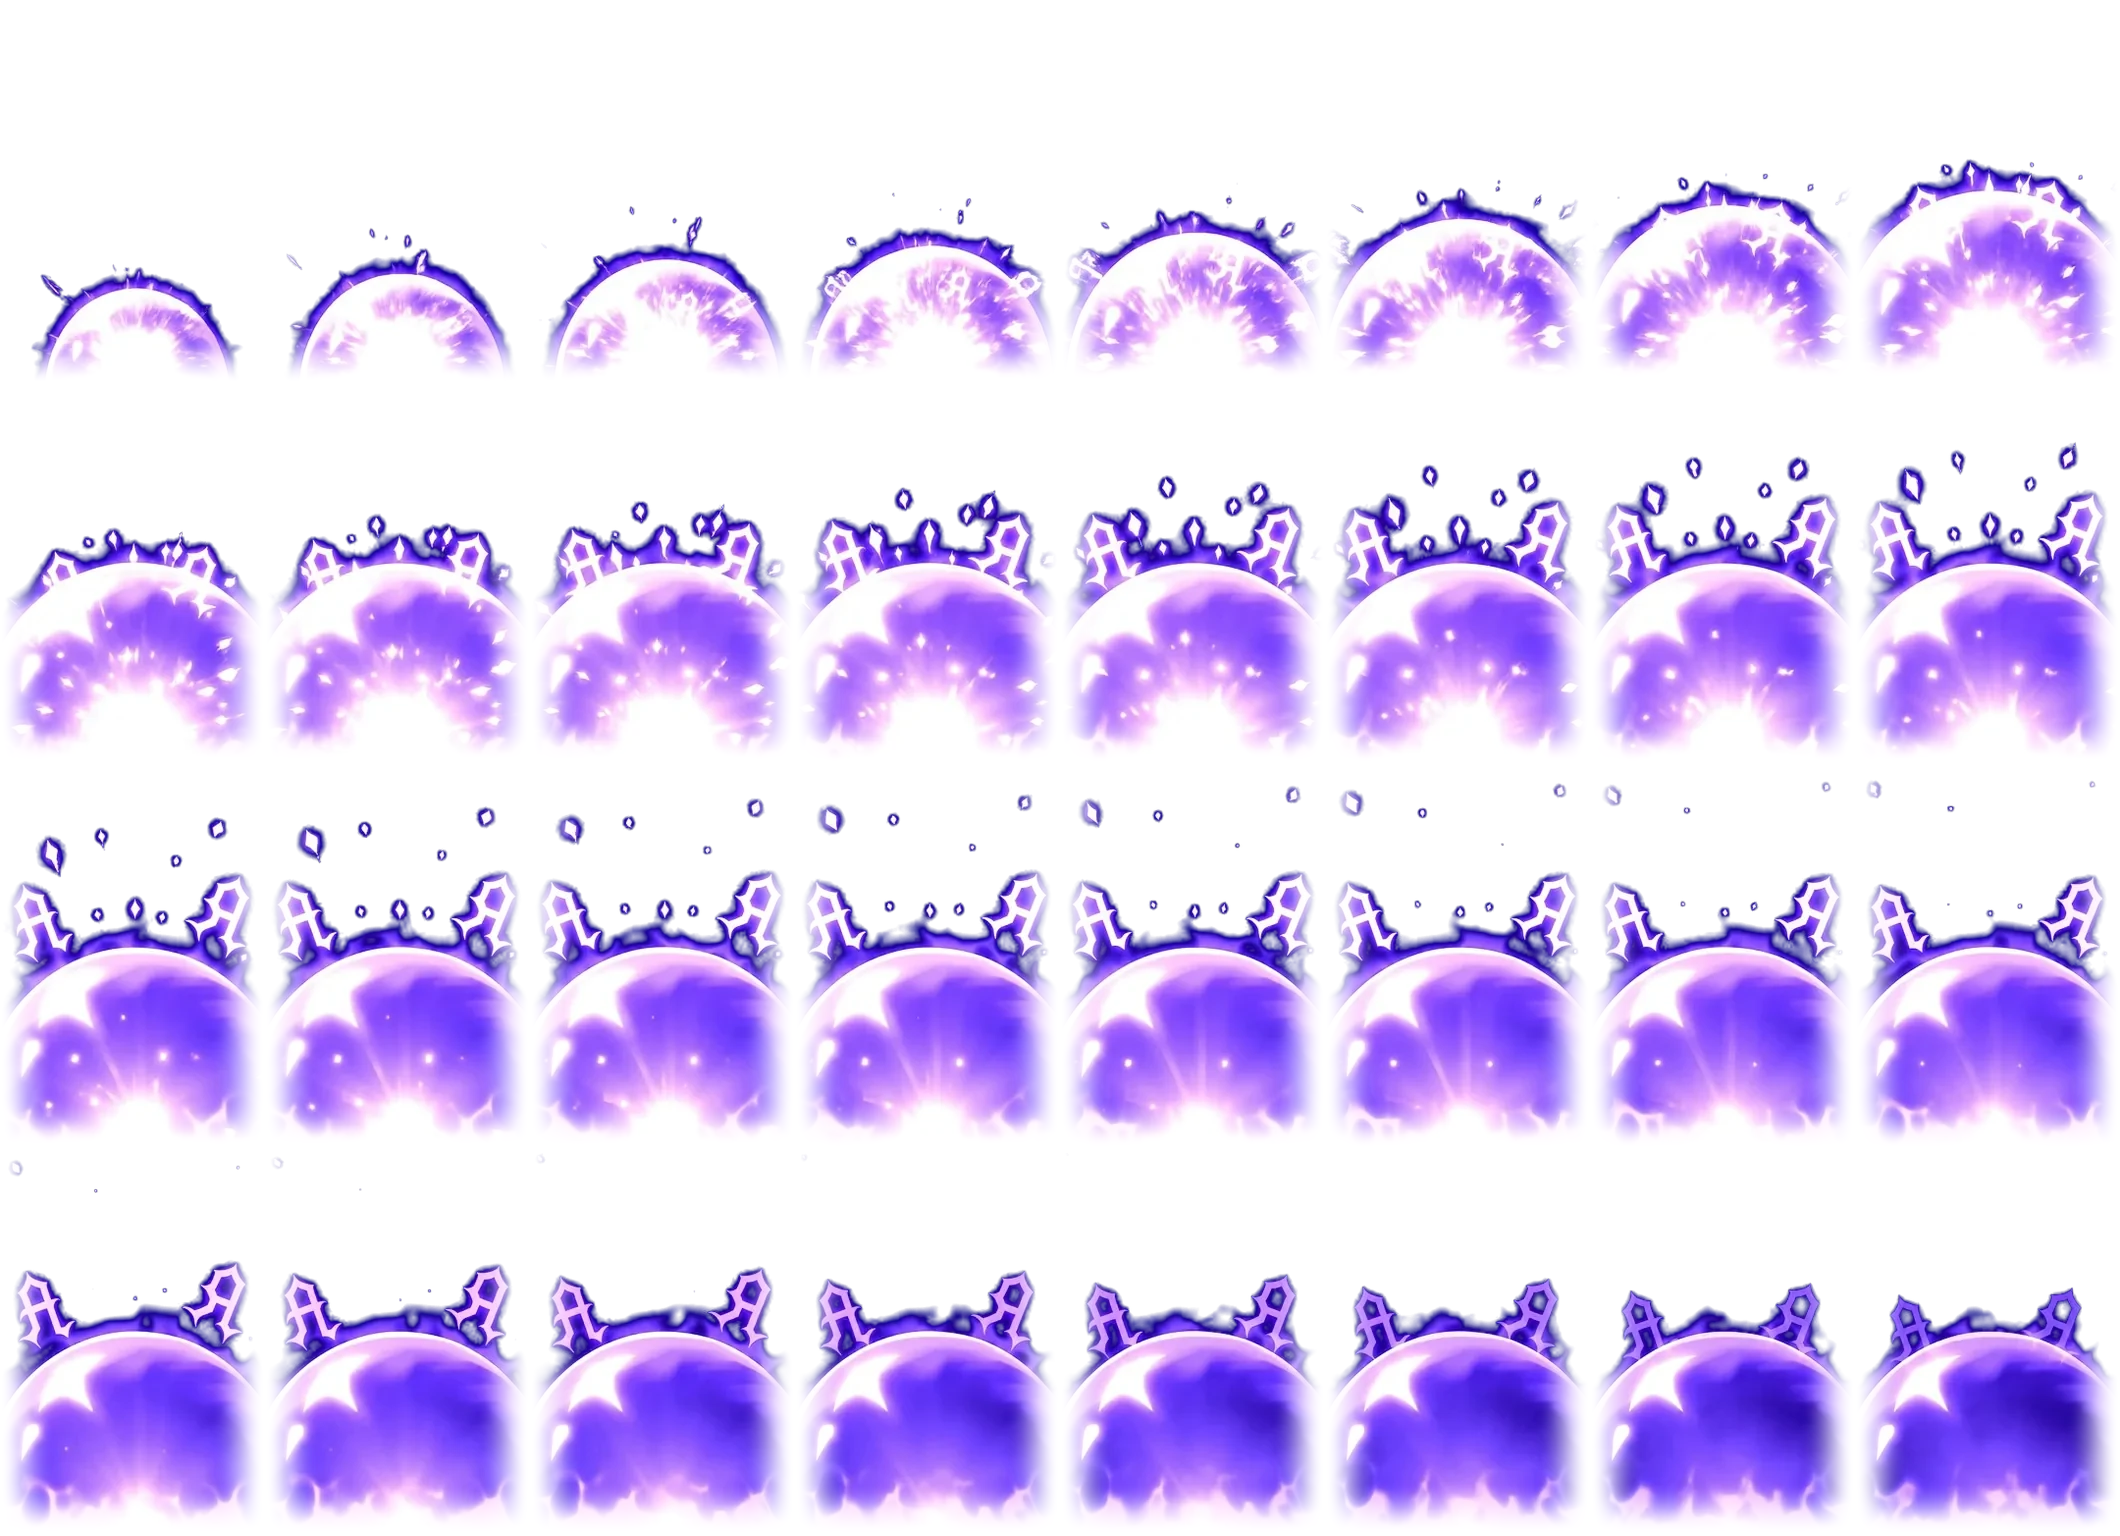
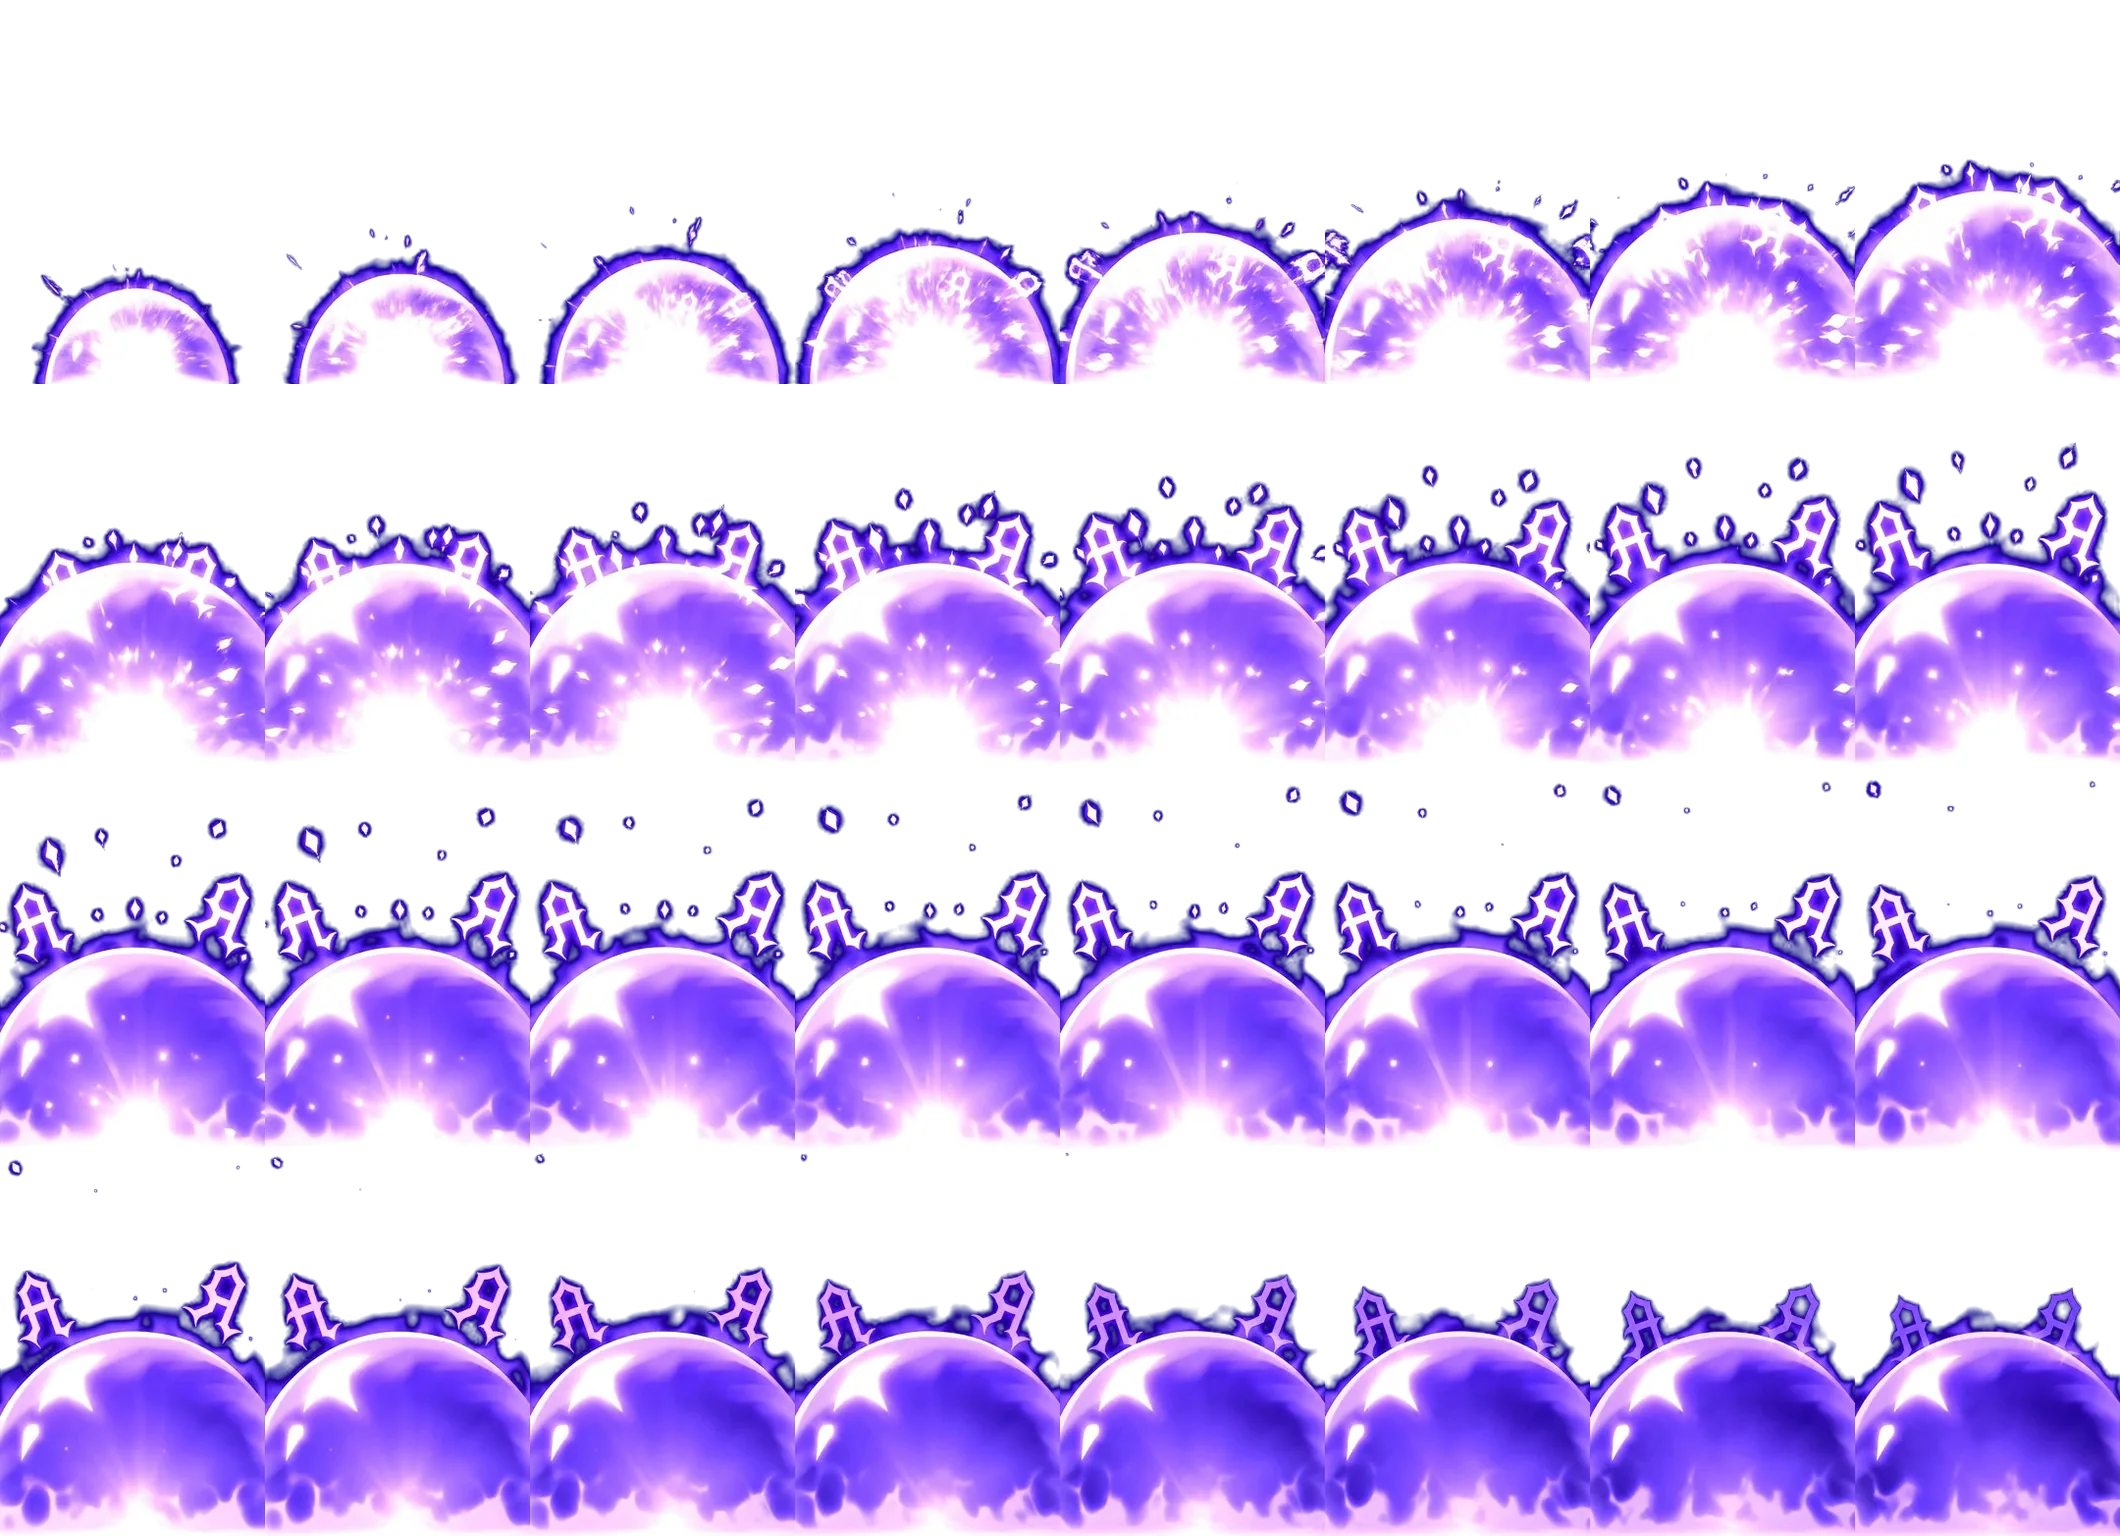
护阵的罩恢复原图，横向拉到正好屏幕宽，帧边直线贴着屏幕边

diff --git a/原型/守关.html b/原型/守关.html
@@ -1557,7 +1557,7 @@ function resolveMove(e, k) {
     const uns = e.mv && e.mv.uns;
     if (uns) { G.wall -= Math.max(UNS_HIT, L.heavy * 2.2) * (e.buffT > 0 ? 1.5 : 1); if (!G.sim) { G.fx.push({ k: 'bossult', t: 0, dur: 1.8, boss: e.kind, bx: e.x, by: e.y, blocked: false, fired: {} }); G.fx.push({ k: 'lunge', t: 0, x: clamp(e.x + R(-60, 60), 40, 320), bx: e.x, by: e.y }); } G.shake = .6; return; }
     if (!G.sim) G.fx.push({ k: 'bossult', t: 0, dur: 1.8, boss: e.kind, bx: e.x, by: e.y, blocked: G.shieldT > 0, fired: {} });   /* 敌将重招的大范围华彩（10-27 用户：「敌人的首领将领的法术还不够绚丽，要范围很大，绚丽」） */
-    if (G.shieldT > 0) { G.counterT = 3; G.blocks = (G.blocks || 0) + 1; G.fx.push({ k: 'blocked', t: 0 }); spPlay('dome', W / 2, WALL_Y + 20, 440, { fps: 22, alpha: .85 }); G.shieldT = 0; G.shieldCd = 0; }   /* 挡下了冷却清零：连斩第二下马上能再举 */
+    if (G.shieldT > 0) { G.counterT = 3; G.blocks = (G.blocks || 0) + 1; G.fx.push({ k: 'blocked', t: 0 }); spPlay('dome', W / 2, WALL_Y + 20, 440, { fps: 22, alpha: .85, fitW: W }); G.shieldT = 0; G.shieldCd = 0; }   /* 挡下了冷却清零：连斩第二下马上能再举 */
     else { G.wall -= L.heavy * (e.buffT > 0 ? 1.5 : 1); G.fx.push({ k: e.kind === 'zhangjiao' ? 'bolt' : 'lunge', t: 0, x: clamp(e.x + R(-60, 60), 40, 320), bx: e.x, by: e.y }); G.shake = .4; }
   } else if (k === 'summon') {
     for (const [kind, n] of L.adds) for (let i = 0; i < n * ENEMY_X; i++) { spawn({ kind, x: clamp(e.x + R(-130, 130), 30, 330), lane: false }, e.y + R(-6, 24)); G.total++; }
@@ -1827,7 +1827,7 @@ function drawWenjiu(f) {                                                        
 // 仁德护阵（10-29 新招）：给城防套一层护盾，挨的伤害先扣盾；8 秒或打光为止
 function resolveHujin(boost = 1) {
   G.wallShield = G.wallMax * .25 * boost * (G.hjMul || 1); G.wallShieldT = G.t + 8; G.wallShieldMax = G.wallShield;
-  spPlay('dome', W / 2, WALL_Y + 6, 380, { ground: false });
+  spPlay('dome', W / 2, WALL_Y + 6, 380, { ground: false, fitW: W });   // 10-29 用户：「你把那个罩拉到屏幕边不就可以了吗，不需要渐隐」
   if (!G.sim) G.fx.push({ k: 'txt', t: 0, x: W / 2, y: WALL_Y - 120, text: '仁德护阵', size: 22, color: AZURE });
   if (!G.sim && G.combos && G.combos.includes('cRen')) {                                   // 连携「仁剑」专属画面（只管画面）：发动一下 + 护盾在时三人脚下的光
     const li = G.order.indexOf('liu'), xs = G.order.map((id, i) => id ? genX(i) : null).filter(x => x != null);
@@ -2504,14 +2504,14 @@ function fbFrame(k, i, x, y, size, rot, alpha = 1, flip = 1, glow = 0) {
 const SP_LOOK = { spears: { tint: '#ffc65a', blend: 'lighter', alpha: .85 }, dome: { blend: 'lighter', alpha: .32 }, sigil_purple: { blend: 'lighter', alpha: .9 }, sigil_gold: { blend: 'lighter', alpha: .9 }, arcs: { blend: 'lighter', alpha: .9 }, face: { alpha: .88 } };
 function spTint(im, col) { const c = document.createElement('canvas'); c.width = im.naturalWidth; c.height = im.naturalHeight; const g = c.getContext('2d'); g.drawImage(im, 0, 0); g.globalCompositeOperation = 'color'; g.fillStyle = col; g.fillRect(0, 0, c.width, c.height); g.globalCompositeOperation = 'destination-in'; g.drawImage(im, 0, 0); return c; }
 const SPV = {}; for (const k of ['sigil_purple', 'arcs', 'face', 'dome', 'spears', 'sigil_gold']) { const im = new Image(); im.src = 'img/fx_sp_' + k + '.webp' + BUST; fetch('img/fx_sp_' + k + '.json' + BUST).then(r => r.ok ? r.json() : null).then(j => { if (!j) return; const L = SP_LOOK[k] || {}; const set = src => { SPV[k] = { im: src, m: j.anims.play, stand: j.stand, L }; }; if (L.tint) { const go = () => set(spTint(im, L.tint)); im.complete && im.naturalWidth ? go() : im.addEventListener('load', go); } else set(im); }).catch(() => {}); }
-function spPlay(k, x, y, size, o = {}) { if (!G || G.sim || !SPV[k]) return; (G.spfx = G.spfx || []).push({ k, x, y, size, born: (G.vt || 0) + (o.delay || 0), fps: o.fps || 16, sy: o.sy || 1, ground: !!o.ground, alpha: o.alpha ?? 1, follow: o.follow || null }); }
+function spPlay(k, x, y, size, o = {}) { if (!G || G.sim || !SPV[k]) return; (G.spfx = G.spfx || []).push({ k, x, y, size, born: (G.vt || 0) + (o.delay || 0), fps: o.fps || 16, sy: o.sy || 1, fitW: o.fitW || 0, ground: !!o.ground, alpha: o.alpha ?? 1, follow: o.follow || null }); }
 function drawSpfx(ground) {
   if (!G.spfx || !G.spfx.length) return; const vt = G.vt || 0;
   G.spfx = G.spfx.filter(f => vt - f.born < SPV[f.k].m.rects.length / f.fps);
   for (const f of G.spfx) { if (f.ground !== ground) continue; const t = vt - f.born; if (t < 0) continue; const V = SPV[f.k], R = V.m.rects, i = Math.min(R.length - 1, Math.floor(t * f.fps)), [sx, sy, sw, sh] = R[i], kk = f.size / V.stand, an = V.m.anchor;
     const x = f.follow ? f.follow.x : f.x, y = f.follow ? f.follow.y + (f.y || 0) : f.y, a = f.alpha * Math.min(1, (R.length - 1 - i) / 4 + .2);
     const L = V.L || {}, aa = a * (L.alpha ?? 1); if (!(V.im.width || V.im.naturalWidth)) continue;
-    ctx.save(); ctx.translate(x, y); ctx.scale(1, f.sy); if (L.blend) ctx.globalCompositeOperation = L.blend; ctx.globalAlpha = aa; ctx.drawImage(V.im, sx, sy, sw, sh, -an[0] * kk, -an[1] * kk, sw * kk, sh * kk);
+    ctx.save(); ctx.translate(x, y); ctx.scale(f.fitW ? f.fitW / (sw * kk) : 1, f.sy); if (L.blend)   /* fitW：横向拉到这么宽（护阵的罩拉过屏幕两边，帧边的直线落在屏幕外；10-29 用户） */ ctx.globalCompositeOperation = L.blend; ctx.globalAlpha = aa; ctx.drawImage(V.im, sx, sy, sw, sh, -an[0] * kk, -an[1] * kk, sw * kk, sh * kk);
     if (!L.blend) { ctx.globalCompositeOperation = 'lighter'; ctx.globalAlpha = aa * .25; ctx.drawImage(V.im, sx, sy, sw, sh, -an[0] * kk, -an[1] * kk, sw * kk, sh * kk); } ctx.restore(); }
 }
 function drawFbs() {
